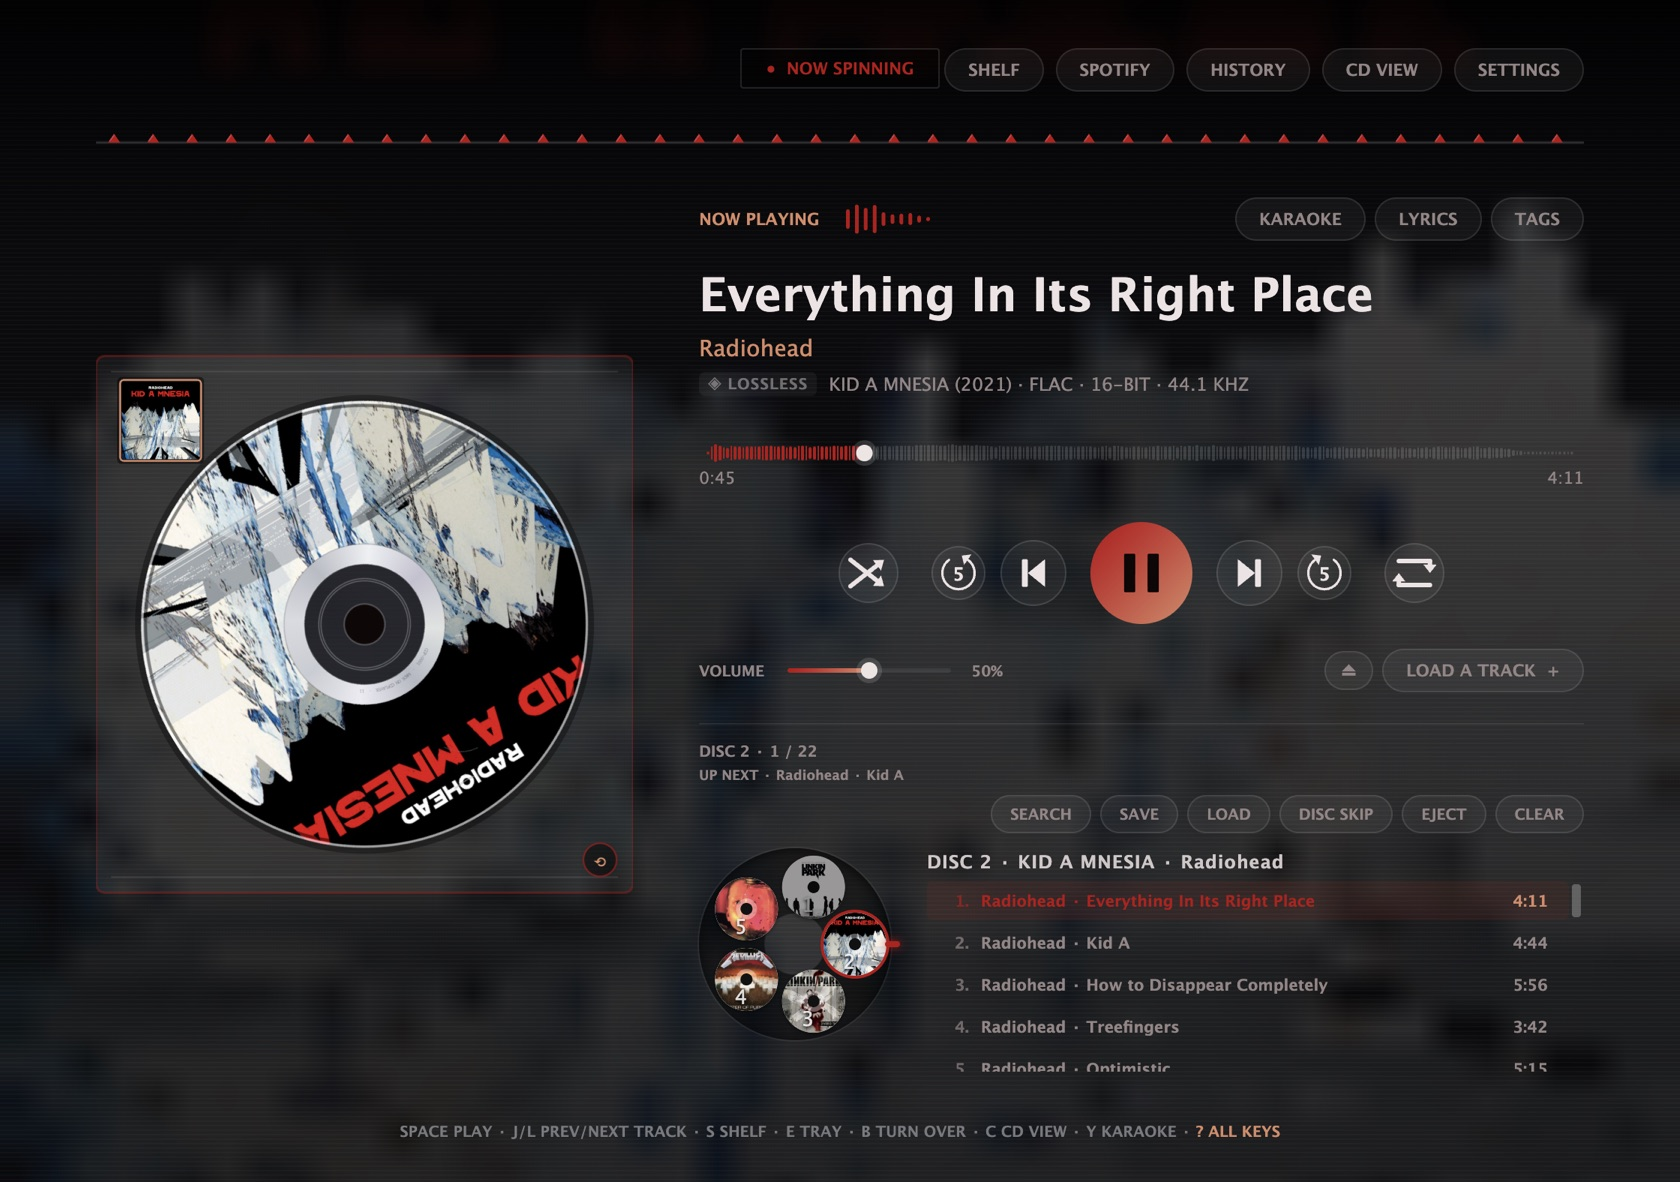
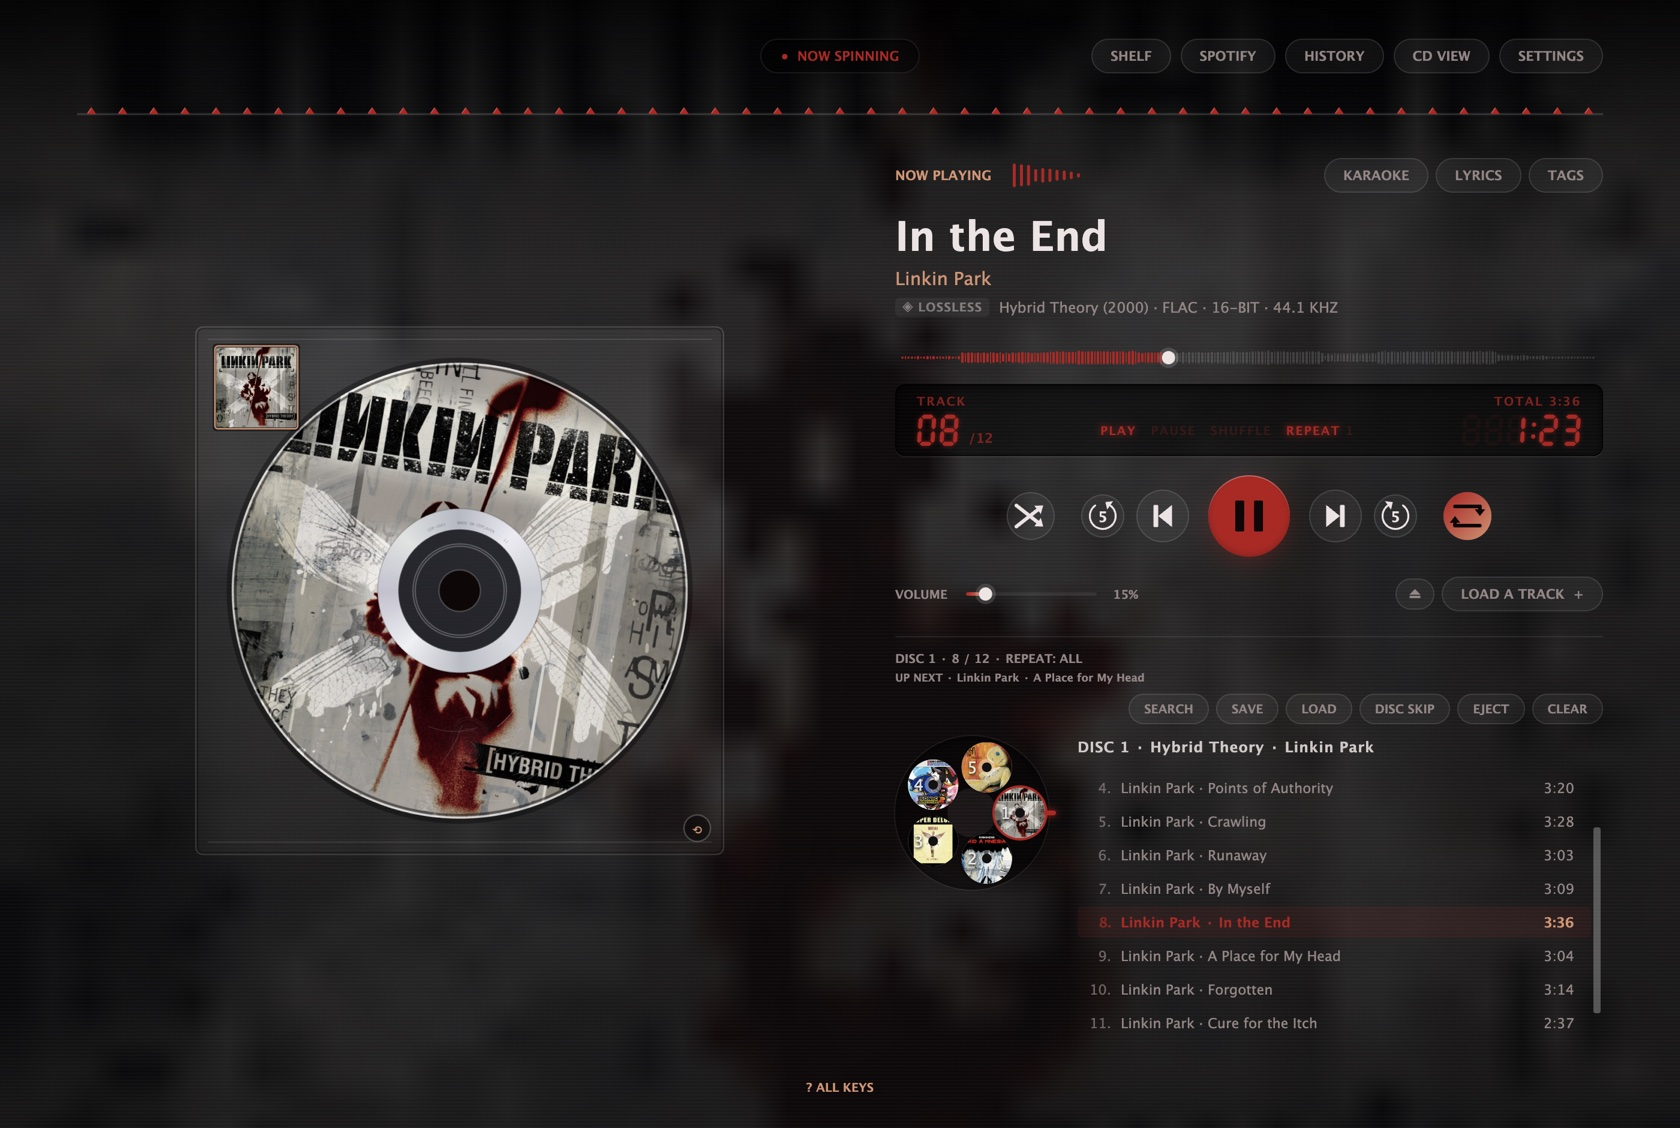
README: fresh screenshots of 2.17 — the changer with five different releases and the deck's display, SNOW playing the Sonic Adventure 2 soundtrack; the deck's display, history by day, LAST PLAYED, several music folders and sleep at the end of the disc

diff --git a/README.md b/README.md
@@ -3,8 +3,8 @@
 A desktop music player that feels like a real CD player — for your local music, your CDs, and (with Spotify Premium) your Spotify albums. No account, nothing else to install: MP3, M4A/ALAC, FLAC, WAV, AIFF, AU, OGG and Opus all play out of the box on macOS, Windows and Linux.
 
 <p align="center">
-  <img src="docs/screenshots/main-changer.jpg" width="49%" alt="CDPlayer main window in CD changer mode: KID A MNESIA playing, five discs in the carousel and the disc's tracklist beside it">
-  <img src="docs/screenshots/main-snow.jpg" width="49%" alt="CDPlayer main window, SNOW theme with falling snow, OK Computer in the queue and a phone connected">
+  <img src="docs/screenshots/main-changer.jpg" width="49%" alt="CDPlayer main window in CD changer mode: Linkin Park's Hybrid Theory playing, the deck's glowing display under the seek bar, five discs in the carousel and the disc's tracklist beside it">
+  <img src="docs/screenshots/main-snow.jpg" width="49%" alt="CDPlayer main window, SNOW theme with falling snow, the Sonic Adventure 2 soundtrack in the queue">
 </p>
 
 ## Download
@@ -31,16 +31,18 @@ When a new version is out, an **AVAILABLE** button appears in the player's top-l
 ## Features
 
 - **The disc** — spins in its jewel case with your cover printed on it, catches the light as you move the mouse (**DISC SHINE** turns it off), wears scratches as you play it, turns over (`B`) to show a ring for each track, can be turned by hand like a DJ's jog wheel, and shows on the Dock or taskbar icon (**DISC ICON**)
-- **The CD shelf** (`S`) — every album in your music folder spine-out, kept up to date as you add, rip or remove albums, sorted by artist, year, most played or colour. Unplayed albums gather dust (wipe it off with the mouse), new ones come shrink-wrapped, sticky notes on cases, and the studio albums you're missing stand as see-through places
+- **The CD shelf** (`S`) — every album in your music folder spine-out, kept up to date as you add, rip or remove albums, sorted by artist, year, most played, last played (a divider for each month) or colour. Several music folders can share it — an external drive too, kept on the list while it's unplugged. Unplayed albums gather dust (wipe it off with the mouse), new ones come shrink-wrapped, sticky notes on cases, and the studio albums you're missing stand as see-through places
 - **The booklet** — the album's tracklist, lyrics and credits, marked in pen as you play: tally marks per song, your favourite circled
 - **Discogs** — each album's exact pressing and market price, on its case, sticker and receipt; **APPRAISE** values your whole shelf
 - **Audio CDs** — play a real CD, named from MusicBrainz, or **RIP** it to verified, tagged FLAC in one click
 - **Lyrics & Karaoke** (`Y`) — lyrics found online, highlighted word by word as they're sung
 - **Spotify** (Premium) — your saved albums and playlists play as discs, with lyrics and karaoke
 - **CD changer** — a mode (Settings → CD CHANGER): five discs in a carousel instead of the queue, each keeping its own music; albums, folders, `.m3u` playlists, Spotify and real CDs go in as discs; SHUFFLE and REPEAT for this disc or all of them (each mode keeps its own, across restarts), DISC SKIP (`D`) and `1`–`5` to play a slot
+- **The deck's display** — under the seek bar, a dark window like a CD player's front panel: the track number and the time in glowing seven-segment digits, TOTAL above, PLAY / PAUSE / SHUFFLE / REPEAT lit between; click the time to count down what's left. In CD view it sits under the album's name (Settings → DISPLAY → CLASSIC brings back the plain times)
+- **History** — the songs you've played under TODAY, YESTERDAY and each day before, with the time each was last played
 - **Hidden tracks** — a song hidden after minutes of silence at the end of a disc's last track (*Nevermind*'s "Endless, Nameless") is found: the silence plays as on the CD with a countdown to it, and the song is named when it begins and written into the booklet
 - **Phone remote** — turn it on in Settings → PHONE REMOTE and scan the QR code with your phone's camera: a remote opens in the phone's browser on the same Wi-Fi, with nothing to install and no account, and nothing goes over the internet. Play and pause, skip, volume, seek, SHUFFLE and REPEAT, pick albums from the shelf, rearrange the queue, and use the changer's discs
-- **Playback** — gapless playback (an album's tracks run into each other, as on the CD), the queue (drag to reorder, PLAY NEXT), AUTOMIX (the next song comes in where this one winds down) or crossfade, 10-band EQ with presets, output device picker, sleep timer, `.m3u` playlists, media keys
+- **Playback** — gapless playback (an album's tracks run into each other, as on the CD), the queue (drag to reorder, PLAY NEXT), AUTOMIX (the next song comes in where this one winds down) or crossfade, 10-band EQ with presets, output device picker, sleep timer (in minutes or at the end of the disc), `.m3u` playlists, media keys
 - **Spatial audio** — for headphones: any song — a file, a CD or a rip — heard from two speakers in front of you instead of from inside your head; **SPACE** sets how much
 - **Quality** — as in Apple Music: LOSSLESS and HI-RES LOSSLESS play each song at its own sample rate (up to 192 kHz), with your headphones' or DAC's rate switched to match on macOS and Windows and put back when CDPlayer closes; a ◈ LOSSLESS badge says what reaches the output
 - **Sound Check** — every song at the same loudness (−18 LUFS), from its ReplayGain tags or measured once; **ALBUM** keeps an album's quiet and loud songs as they were made
